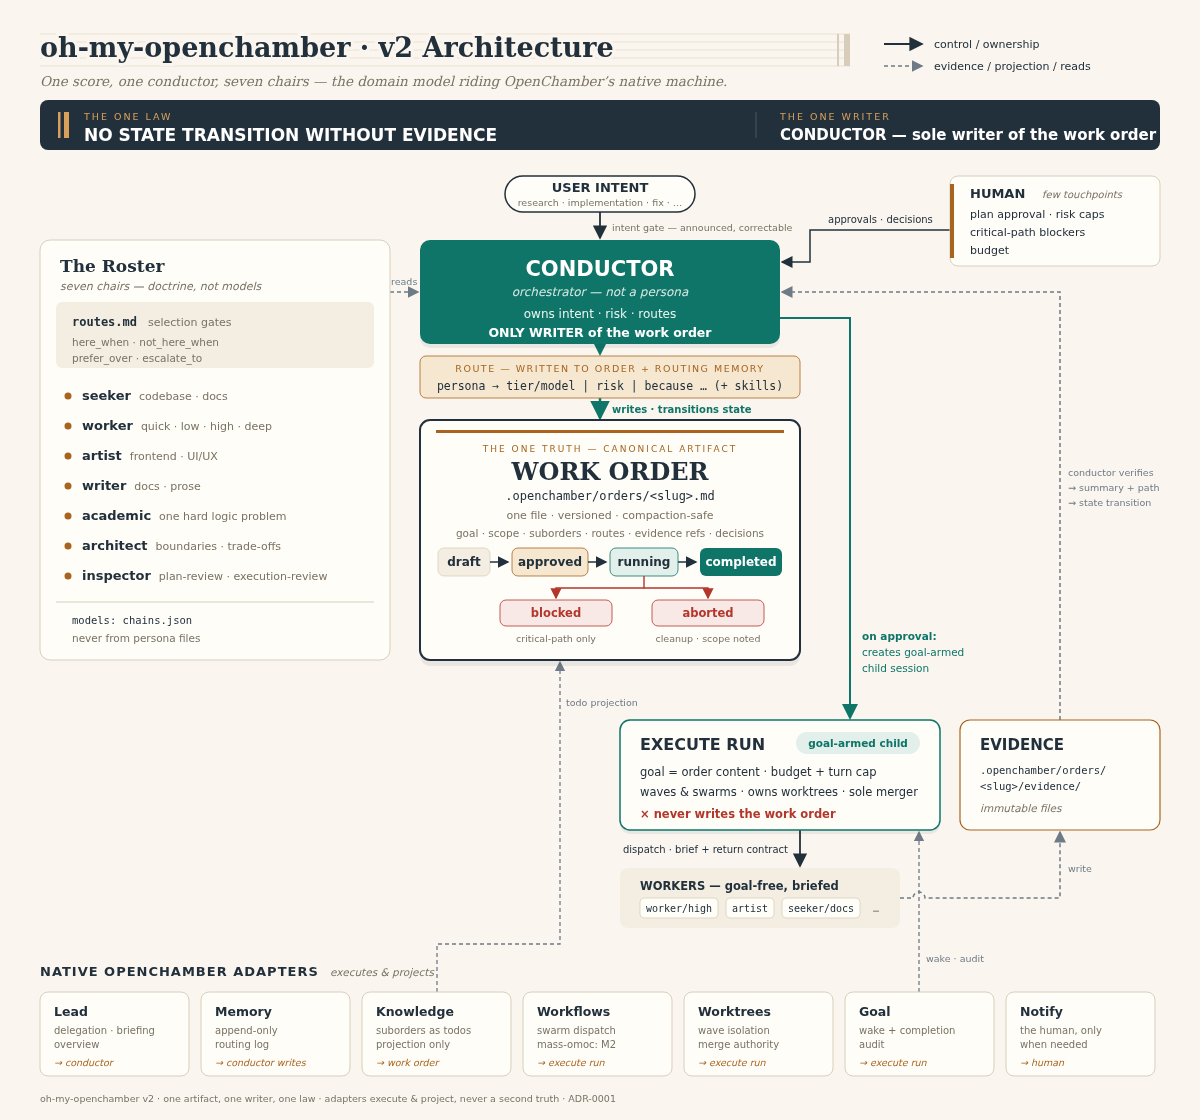
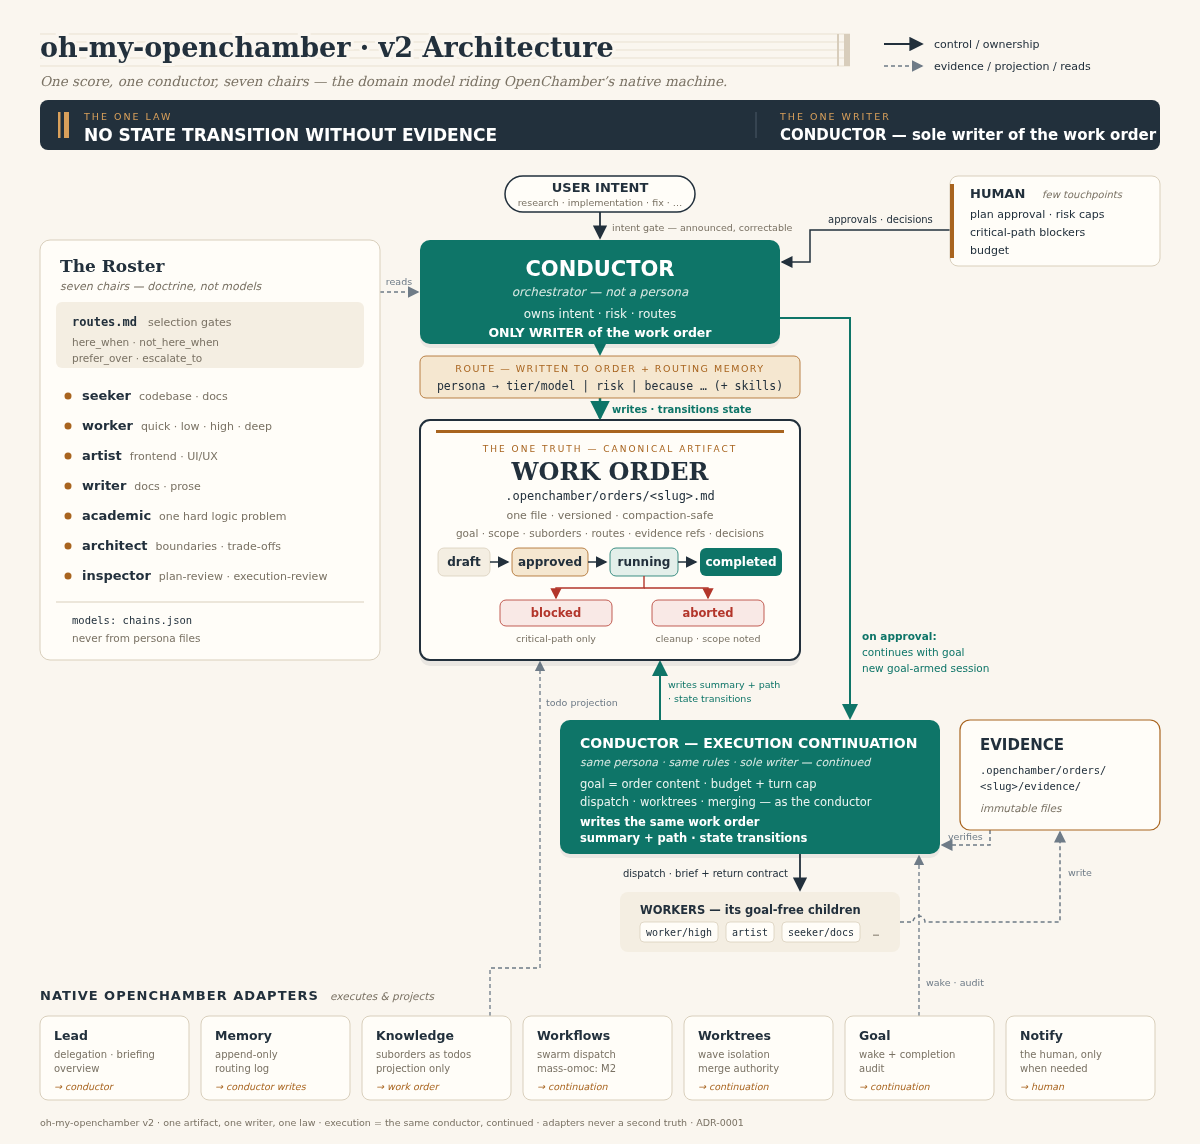
Execution is the conductor continued, not a child role
Remove the goal-armed execute-run as an architectural entity. The conductor
continues itself in a goal-armed session with the same persona, rules and
sole-writer authority. Update plan, glossary, conductor, protocols,
template, README and architecture diagram.

diff --git a/docs/PLAN.md b/docs/PLAN.md
@@ -21,7 +21,7 @@ Fünf Begriffe tragen die Architektur (kanonisch im [Glossar](GLOSSARY.md)):
 
 **Das eine Gesetz:** *Kein Zustandswechsel ohne Evidenz.* Die fünf Tore, die unabhängige Prüfung, die Goal-Audit, das Zurückschicken belegloser Berichte und ESCALATE sind sechs Durchsetzungen desselben Gesetzes an verschiedenen Grenzen — keine sechs unabhängigen Regeln.
 
-**Die eine Wahrheit:** `.openchamber/orders/<slug>.md` — eine Datei, versioniert, review-bar, compaction-sicher. Der **Dirigent ist immer ihr einziger Schreiber**. Subagenten und der Ausführungs-Lauf schreiben Evidenz-Dateien unter `.openchamber/orders/<slug>/evidence/`; während der Lauf bleibt die zentrale Datei bei Zusammenfassung + Pfad, bei Fertigstellung übernimmt der Dirigent die Zusammenfassung und schließt den Übergang.
+**Die eine Wahrheit:** `.openchamber/orders/<slug>.md` — eine Datei, versioniert, review-bar, compaction-sicher. Der **Dirigent ist immer ihr einziger Schreiber**, auch in seiner Ausführungs-Fortsetzung. Subagenten schreiben Evidenz-Dateien unter `.openchamber/orders/<slug>/evidence/`; während der Lauf bleibt die zentrale Datei bei Zusammenfassung + Pfad, bei Fertigstellung schließt der Dirigent den Übergang.
 
 ## 3. Der Lebenszyklus
 
@@ -30,7 +30,7 @@ Sechs Zustände, vier Protokolle: `blocked` wird von `running.md` §5 regiert, `
 | Zustand | Was geschieht | Writer |
 |---|---|---|
 | `draft` | Interview → Entwerfen → Verfeinern ↔ Prüfen (Schleife) → Genehmigungs-Tor | Dirigent |
-| `approved` | read-only Preflight; besteht er, wird der Ausführungs-Lauf angelegt, Routen und Wellen gesetzt | Dirigent |
+| `approved` | read-only Preflight; besteht er, wird die Ausführungs-Fortsetzung des Dirigenten angelegt, Routen und Wellen gesetzt | Dirigent |
 | `running` | Dispatch → Gates → Evidenz → Übergang; blockierte Suborders sofort triagieren | Dirigent (Evidenz kommt von außen) |
 | `blocked` | nur wenn der kritische Pfad keine ausführbare Arbeit mehr hat; Grund + Lösungsweg stehen im Artefakt | Dirigent |
 | `completed` | Abschluss-Welle: Plan-Treue, Code-Qualität über Grenzen, echte Oberfläche, Ideal-State | Dirigent |
@@ -85,22 +85,22 @@ Kein sechstes Tor „Mensch": Der Mensch kommt über Risiko-Deckel, uneingelöst
 ## 7. Die Zustands-Protokolle
 
 - **`draft`:** Recherche zuerst (seeker), Absicht CLEAR/UNCLEAR, Owner-Entscheidungen immer Fragen, Kurz-Brief, Lücken-Schleife (plan-consultant als Protokoll-Schritt), Szenario-Vertrag, Artefakt schreiben, inspector/plan-review bis OKAY, Nutzer-Freigabe.
-- **`approved`:** read-only Preflight (Referenzen, Annahmen, Basis-Checks, Integrations-Zweig) — besteht er: Ausführungs-Lauf anlegen, sonst zurück zu `draft` mit Befund.
+- **`approved`:** read-only Preflight (Referenzen, Annahmen, Basis-Checks, Integrations-Zweig) — besteht er: Ausführungs-Fortsetzung des Dirigenten anlegen, sonst zurück zu `draft` mit Befund.
 - **`running`:** Wellen, Swarms, Routen, Gates, Evidenz-Pfade, sofortige Blocker-Triage. Der Dirigent schreibt den Auftrag; die Ausführung liefert.
 - **`completion`:** F1 Plan-Treue · F2 Code-Qualität · F3 echte Oberfläche · F4 Ideal-State. Kein `completed` mit heimlichen Resten: abgebrochene Suborders müssen aus dem Scope genommen oder ersetzt sein.
 
 ## 8. Autonomie ohne Doppelsteuerung
 
-Der Agent kann kein Goal auf seine eigene laufende Session setzen — aber er kann eine Session **mit** Goal anlegen. Deshalb ist der **Ausführungs-Lauf ein eigenes, mit Ziel geborenes Kind**: Der Dirigent legt es mit `goal` + `goalTokenBudget` an, Objective = Inhalt des WorkOrder, Budget = Plan-Schätzung, Turn-Kappe = erwartete Iterationen. Der serverseitige Audit hält den Lauf wach, bis der Zielzustand belegt ist; der Lauf endet jeden Turn mit *Done / Verified / Remaining / Needs from user*. Arbeiter bleiben goal-frei.
+Der Agent kann kein Goal auf seine eigene laufende Session setzen — aber er kann eine Session **mit** Goal anlegen. Deshalb ist die Ausführung eine **Fortsetzung des Dirigenten**: dieselbe Persona, dieselben Regeln, dieselbe Schreiberschaft, nur in einer neuen, Goal-bewaffneten Session. Der Dirigent legt sie mit `goal` + `goalTokenBudget` an; Objective = Inhalt des WorkOrder, Budget = Plan-Schätzung, Turn-Kappe = erwartete Iterationen. Es gibt **keinen zweiten Dirigenten und keine Übergabe der Verantwortung**.
 
-Der Lauf besitzt Worktrees und Merge-Autorität, **nicht** die kanonische Datei; er meldet Evidenz an den Dirigenten, der zusammenfasst und Übergänge schließt. Auf `budgetLimited` oder uneingelöstem kritischem Blocker kommt eine Nachricht an den Menschen — keine Pollerei, kein ständiges Eingreifen.
+Der serverseitige Audit hält diese Fortsetzung wach, bis der Zielzustand belegt ist; sie endet jeden Turn mit *Done / Verified / Remaining / Needs from user*. Die Musiker bleiben goal-frei. Die Fortsetzung besitzt Worktrees und Merge-Autorität **als Dirigent**, nicht als separate Rolle; sie schreibt weiterhin den kanonischen Auftrag. Auf `budgetLimited` oder uneingelöstem kritischem Blocker kommt eine Nachricht an den Menschen — keine Pollerei, kein ständiges Eingreifen.
 
 ## 9. Native Adapter
 
 | OpenChamber-Mechanik | Rolle im Modell |
 |---|---|
 | Lead | Delegation, Briefing, Übersicht für den Dirigenten |
-| Goal | Wachhalt- und Abschluss-Audit am Ausführungs-Lauf |
+| Goal | Wachhalt- und Abschluss-Audit an der Ausführungs-Fortsetzung des Dirigenten |
 | Knowledge | Projektion der Suborders als Todos; nie zweite Wahrheit |
 | Memory | Append-only Routing-Verlauf (Route + Ergebnis); Lern-Datensatz |
 | Workflows | Schwarm-Dispatch; mass-omoc (Abhängigkeitsgraph) nach M2 |
@@ -121,6 +121,6 @@ IntentGate als Keyword-Hook · Team Mode · Lifecycle-Hooks · LSP/AST-Werkzeuge
 ## 12. Offene Punkte
 
 - Konkrete Modell-Ketten pro Persona/Tier anhand der aktiven Anbieter (Pilot).
-- Bestätigt der Pilot einen nativen Agenten-Parameter pro Kind-Session? Bis dahin: Persona-Doktrin + Overlay wird vom Dirigenten ins Briefing gelesen.
+- Bestätigt der Pilot einen nativen Agenten-Parameter pro Arbeiter-Kind-Session? Bis dahin: Persona-Doktrin + Overlay wird vom Dirigenten ins Briefing gelesen.
 - Familien-Overlays für GPT/Claude erst bei belegtem Bedarf.
 - Öffentlicher Name des Dirigenten („conductor" als Dateiname ist gesetzt).

diff --git a/protocols/approved.md b/protocols/approved.md
@@ -13,21 +13,22 @@ Before any execution:
 
 On failure: record the cited finding in the work order, return to `draft`, re-plan. Never execute against a stale approval.
 
-## 2. Create the execute run
+## 2. Continue the conductor with a goal
 
-The agent cannot arm a goal on its own running session, but it can create a session with a goal. Create **one execute-run child session** with:
+The agent cannot arm a goal on its own running session, but it can create a session with a goal. Continue **yourself** in a new session with:
 
+- the same conductor persona, rules, and canonical-write authority
 - `goal` = the work order's content (the plan itself, not "implement plan X")
 - `goalTokenBudget` = the plan's estimate
 - model = current conductor chain rung
 - auto-turn cap raised to the expected iteration count
 
-Workers stay goal-free. The server-side audit keeps the execute run awake and is the only authority that can settle its goal.
+This is an **execution continuation**, not a child role and not a handover. Workers stay goal-free. The server-side audit keeps the continuation awake and is the only authority that can settle its goal.
 
 ## 3. Routes and waves
 
-Write each suborder's route into the work order: persona, tier/overlay, resolved model, risk, rationale. Set waves and the critical path. Knowledge todos are a projection of these suborders, never a second state.
+Write each suborder's route into the work order: persona, tier/overlay, resolved model, risk, rationale, optional skills. Set waves and the critical path. Knowledge todos are a projection of these suborders, never a second state.
 
-## 4. Hand over the pen
+## 4. Transition
 
-The conductor remains the work order's only writer. The execute run owns dispatch, worktrees, and merging; it writes evidence files and reports their paths back. Transition the work order to `running`.
+The conductor — now in its execution continuation — remains the work order's only writer. Transition the work order to `running` and execute the approved plan.

diff --git a/README.md b/README.md
@@ -12,13 +12,13 @@ Where [OmO](https://omo.dev) built its own orchestration machine, oh-my-opencham
 - **Seven personas:** `seeker` (codebase/docs overlays), `worker` (quick/low/high/deep tier overlays), `artist`, `writer`, `academic`, `architect`, `inspector` (plan-review/execution-review overlays). No model ids live in persona files; `chains.json` resolves them per route.
 - **Routing metadata:** `routes.md` holds selection gates separately from persona doctrine; routes may carry task-specific `skills`, and every worker returns through `templates/return-contract.md`.
 - **Four state protocols:** `draft`, `approved`, `running`, `completion`. Planning and execution are phases of one work order, not separate skills.
-- **Autonomy:** the conductor creates the execute run as a goal-armed child session; the native audit keeps it awake; humans are involved only for risk, unresolved blockers, or budget.
+- **Autonomy:** the conductor continues itself in a goal-armed execution session — same persona, same rules, same canonical-write authority; the native audit keeps it awake. Humans are involved only for risk, unresolved blockers, or budget.
 
 ## Architecture
 
 ![oh-my-openchamber architecture v2](docs/diagrams/architecture-v2.png)
 
-The editable source is [`docs/diagrams/architecture-v2.svg`](docs/diagrams/architecture-v2.svg). The diagram shows the canonical WorkOrder, the conductor as sole writer, the seven personas and their routes, the goal-armed execute run, the evidence loop, and OpenChamber's native adapters.
+The editable source is [`docs/diagrams/architecture-v2.svg`](docs/diagrams/architecture-v2.svg). The diagram shows the canonical WorkOrder, the conductor as sole writer, the seven personas and their routes, the conductor's goal-armed execution continuation, the evidence loop, and OpenChamber's native adapters.
 
 ## Install
 

diff --git a/protocols/running.md b/protocols/running.md
@@ -1,6 +1,6 @@
 # Protocol: running
 
-Owner of the work order: conductor (always). Owner of execution: the goal-armed execute run. Workers own only their evidence files.
+Owner of the work order: conductor — including its execution continuation. Workers own only their evidence files.
 
 ## 1. Dispatch
 
@@ -31,7 +31,7 @@ There is no sixth "human" gate. Human contact comes from the risk cap, unresolve
 
 ## 4. Evidence and the canonical file
 
-Workers and the execute run write immutable evidence under `.openchamber/orders/<slug>/evidence/`. While running, the conductor writes only **summary + path** into the work order. On completion, the conductor verifies the evidence (execution-review), writes the summary, and performs the state transition. Workers never write the work order.
+Workers write immutable evidence under `.openchamber/orders/<slug>/evidence/`. While running, the conductor writes only **summary + path** into the work order. On completion, the conductor verifies the evidence (execution-review), writes the summary, and performs the state transition. Workers never write the work order.
 
 ## 5. Blocked triage
 
@@ -43,4 +43,4 @@ While the approved plan has unchecked suborders, steer every new input back to i
 
 ## 7. Budget and merge
 
-On `budgetLimited`, the execute run reports to the conductor, which asks the human for a raise; progress lives in the work order. Each wave works in its own worktree. **Only the execute run merges**, after its checkboxes carry evidence. On settle, one notification reaches the human.
+On `budgetLimited`, the conductor asks the human for a raise; progress lives in the work order. Each wave works in its own worktree. **Only the conductor merges**, after its checkboxes carry evidence. On settle, one notification reaches the human.

diff --git a/conductor.md b/conductor.md
@@ -48,8 +48,8 @@ The announcement commits you to nothing. Only the user's explicit request starts
 
 ## Canonical write rule
 
-You always write the work order. Subagents and the execute run write only evidence files under `.openchamber/orders/<slug>/evidence/`; while running, your file holds summary + path. On verified completion you incorporate the summary and transition the state. Knowledge todos are a projection, Memory is only the routing log, Goal is only the execute-run's wake/audit adapter.
+You always write the work order — including from your execution continuation. Subagents write only evidence files under `.openchamber/orders/<slug>/evidence/`; while running, your file holds summary + path. On verified completion you incorporate the summary and transition the state. Knowledge todos are a projection, Memory is only the routing log, Goal is only the execution continuation's wake/audit adapter.
 
 ## Autonomy
 
-For an approved work order, create the execute run as its own goal-armed child session: `goal` = the work order content, budget = estimate, turn cap = expected iterations. Workers stay goal-free. On `budgetLimited`, unresolved critical-path blockers, or risk-cap decisions, involve the human; otherwise notify only when the goal settles.
+For an approved work order, continue yourself in a new goal-armed session: same conductor persona, same rules, same canonical-write authority; `goal` = the work order content, budget = estimate, turn cap = expected iterations. This is a continuation, not a child role and not a handover. Workers stay goal-free. On `budgetLimited`, unresolved critical-path blockers, or risk-cap decisions, involve the human; otherwise notify only when the goal settles.

diff --git a/GLOSSARY.md b/GLOSSARY.md
@@ -48,6 +48,10 @@ _Avoid_: Paused — pausiert ist eine bewusste Entscheidung, blockiert ist ein u
 Der Orchestrator, der Absicht und Risiko verwaltet, Routen setzt und den kanonischen WorkOrder schreibt; er ist keine Persona.
 _Avoid_: Lead-Agent, Worker — er spielt kein Instrument, er leitet.
 
+**Execution continuation (Ausführungs-Fortsetzung)**:
+Eine neue Session, in der derselbe Dirigent mit derselben Persona, denselben Regeln und derselben Schreiberschaft weiterarbeitet — nur mit einem Goal versehen. Sie ist keine eigene Rolle und kein Kind-Agent.
+_Avoid_: Execute run, Kind-Session, zweiter Dirigent — das waren Namen für einen Transport-Adapter, nicht für ein Domänenobjekt.
+
 **Adapter**:
 Eine native OpenChamber-Mechanik, die einen Teil des WorkOrder-Lebenszyklus ausführt oder darstellt, ohne selbst das Domänenmodell zu bilden.
 _Avoid_: Plugin, Engine — das Projekt baut keine eigene Ausführungsmaschine.

diff --git a/protocols/completion.md b/protocols/completion.md
@@ -19,7 +19,7 @@ An aborted suborder does not vanish. Before `completed`, each aborted item must 
 
 ## 3. Transition
 
-The conductor writes the final summary, evidence references, and state `completed`. The execute run's goal settles through the native audit; the conductor does not declare the goal complete. One notification tells the human the result.
+The conductor writes the final summary, evidence references, and state `completed`. The execution continuation's goal settles through the native audit; the conductor does not declare the goal complete. One notification tells the human the result.
 
 ## 4. Learning
 

diff --git a/templates/work-order.md b/templates/work-order.md
@@ -88,7 +88,7 @@ Gap (GAP-<n>): <was heute fehlt>
 
 ## Runtime pointers
 
-- Execute session: <id>
+- Execution continuation session: <id>
 - Goal: <Objective-Zusammenfassung; vollständiger Inhalt = dieses Artefakt>
 - Worktrees: <Pfade>
 - Blocked reason: <Grund + nächster Lösungsversuch, nur wenn blockiert>
